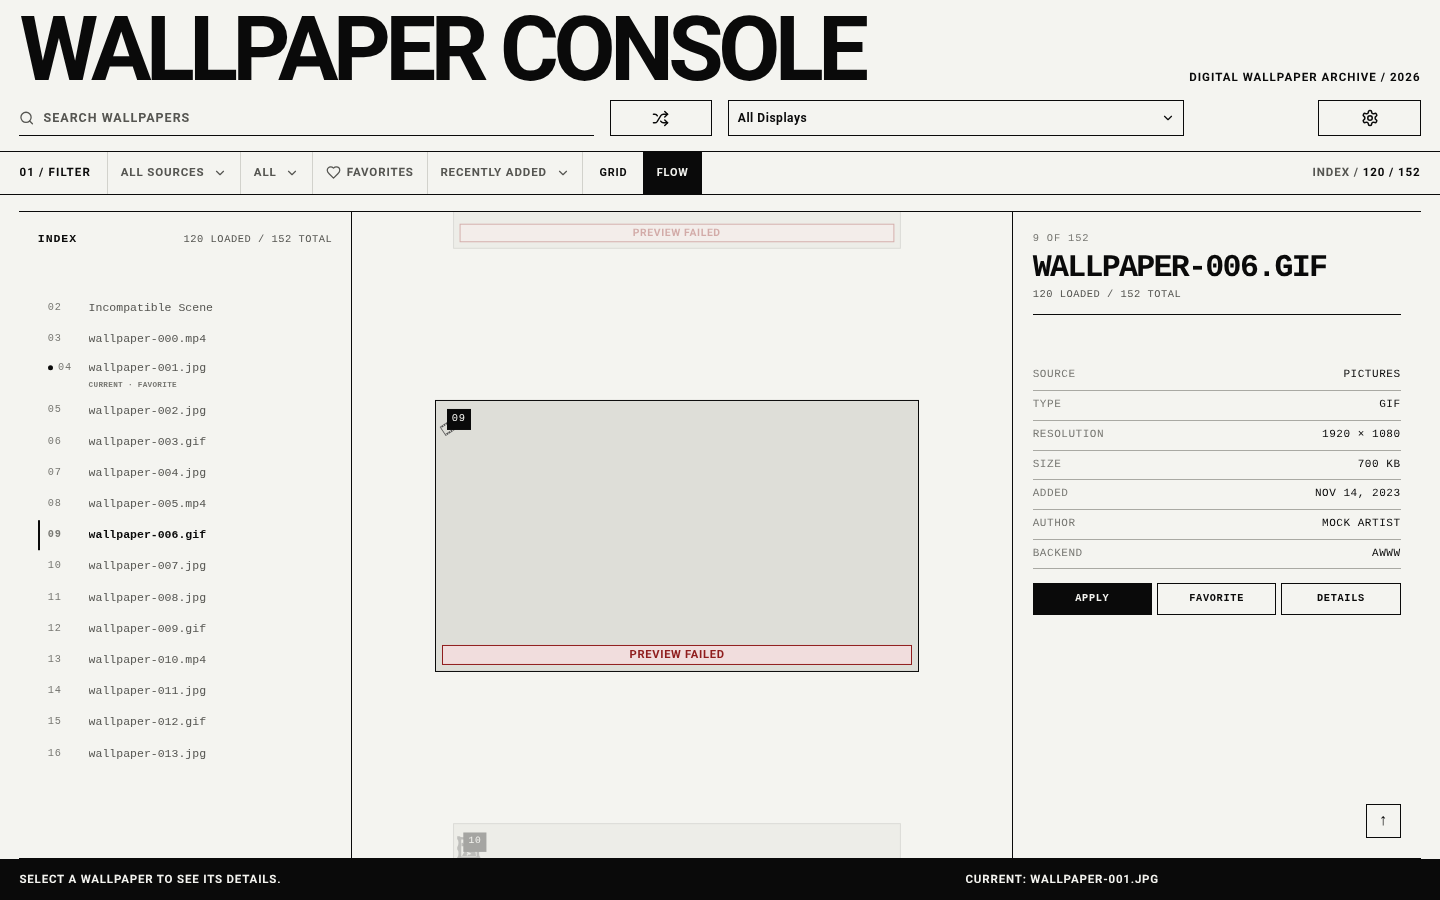
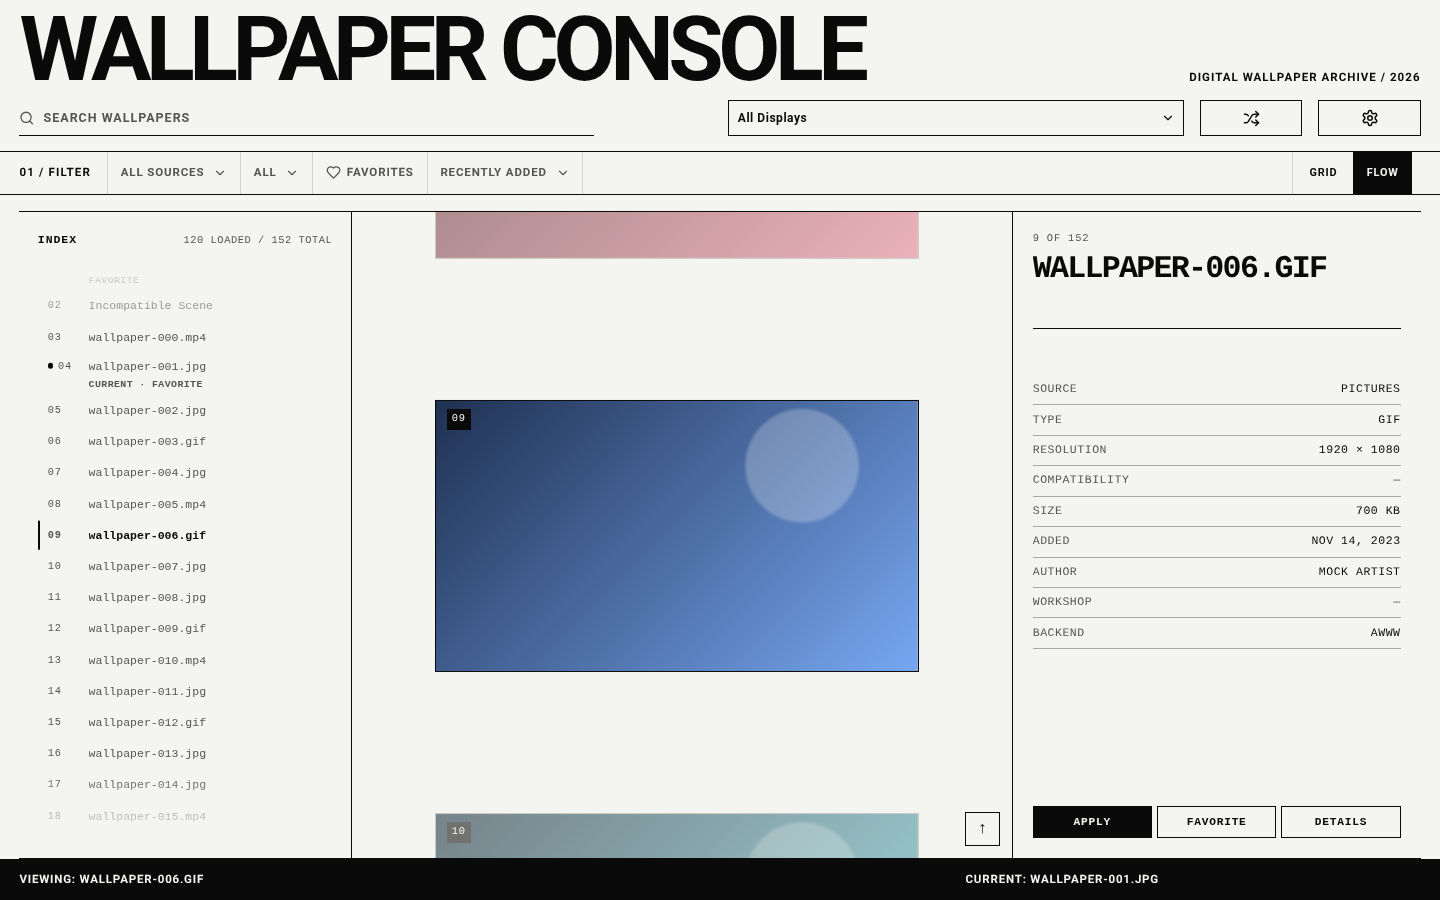
fix(gui): address onboarding review findings

diff --git a/apps/tauri-gui/src-tauri/src/commands/sources.rs b/apps/tauri-gui/src-tauri/src/commands/sources.rs
@@ -14,16 +14,23 @@ pub enum FirstRunSourceSuggestionDto {
     WallpaperEngine { roots: Vec<String> },
 }
 
+enum XdgUserDirResolution {
+    Configured(PathBuf),
+    Disabled,
+    Unavailable,
+}
+
 /// Read a key from the XDG user-dirs.dirs file (e.g. XDG_DOWNLOAD_DIR).
-/// Returns None when the file or key is missing, the value is malformed, or
-/// the directory is disabled (set to "$HOME/"). Relative values resolve
-/// against home.
-fn xdg_user_dir(config_home: Option<&Path>, home: &Path, key: &str) -> Option<PathBuf> {
+/// A value of "$HOME/" explicitly disables the directory; missing or malformed
+/// configuration remains distinguishable so callers may apply a fallback.
+fn xdg_user_dir(config_home: Option<&Path>, home: &Path, key: &str) -> XdgUserDirResolution {
     let config_root = config_home
         .filter(|path| path.is_absolute())
         .map(Path::to_path_buf)
         .unwrap_or_else(|| home.join(".config"));
-    let contents = std::fs::read_to_string(config_root.join("user-dirs.dirs")).ok()?;
+    let Ok(contents) = std::fs::read_to_string(config_root.join("user-dirs.dirs")) else {
+        return XdgUserDirResolution::Unavailable;
+    };
     for line in contents.lines() {
         let line = line.trim();
         let line = line.strip_prefix("export ").unwrap_or(line);
@@ -34,32 +41,37 @@ fn xdg_user_dir(config_home: Option<&Path>, home: &Path, key: &str) -> Option<Pa
             continue;
         };
         let value = raw.trim().trim_matches('"');
-        if value.is_empty() || value == "$HOME" || value == "$HOME/" {
-            // The XDG spec treats a directory set to "$HOME/" as disabled.
-            return None;
+        if value == "$HOME" || value == "$HOME/" {
+            return XdgUserDirResolution::Disabled;
+        }
+        if value.is_empty() {
+            return XdgUserDirResolution::Unavailable;
         }
         if let Some(rest) = value.strip_prefix("$HOME/") {
-            return Some(home.join(rest));
+            return XdgUserDirResolution::Configured(home.join(rest));
         }
         let candidate = PathBuf::from(value);
-        return Some(if candidate.is_absolute() {
+        return XdgUserDirResolution::Configured(if candidate.is_absolute() {
             candidate
         } else {
             home.join(candidate)
         });
     }
-    None
+    XdgUserDirResolution::Unavailable
 }
 
 /// Resolve the downloads directory to suggest: prefer the XDG-configured
-/// download directory, fall back to the literal ~/Downloads. Only existing
-/// directories are offered.
+/// download directory, fall back to the literal ~/Downloads when configuration
+/// is unavailable, and respect an explicit XDG opt-out.
 fn downloads_suggestion_candidate(home: &Path, config_home: Option<&Path>) -> Option<PathBuf> {
-    let xdg = xdg_user_dir(config_home, home, "XDG_DOWNLOAD_DIR");
-    xdg.filter(|path| path.is_dir()).or_else(|| {
-        let literal = home.join("Downloads");
-        literal.is_dir().then_some(literal)
-    })
+    match xdg_user_dir(config_home, home, "XDG_DOWNLOAD_DIR") {
+        XdgUserDirResolution::Configured(path) if path.is_dir() => Some(path),
+        XdgUserDirResolution::Disabled => None,
+        XdgUserDirResolution::Configured(_) | XdgUserDirResolution::Unavailable => {
+            let literal = home.join("Downloads");
+            literal.is_dir().then_some(literal)
+        }
+    }
 }
 
 fn detect_first_run_source_suggestions(
@@ -884,6 +896,22 @@ mod tests {
                 path: downloads.to_string_lossy().into_owned(),
             }]
         );
+    }
+
+    #[test]
+    fn first_run_suggestions_respect_a_disabled_xdg_download_directory() {
+        let home = tempfile::tempdir().unwrap();
+        let config = home.path().join(".config");
+        std::fs::create_dir_all(&config).unwrap();
+        std::fs::create_dir_all(home.path().join("Downloads")).unwrap();
+        std::fs::write(
+            config.join("user-dirs.dirs"),
+            r#"XDG_DOWNLOAD_DIR="$HOME/"
+"#,
+        )
+        .unwrap();
+
+        assert!(detect_first_run_source_suggestions(home.path(), None).is_empty());
     }
 
     #[test]
